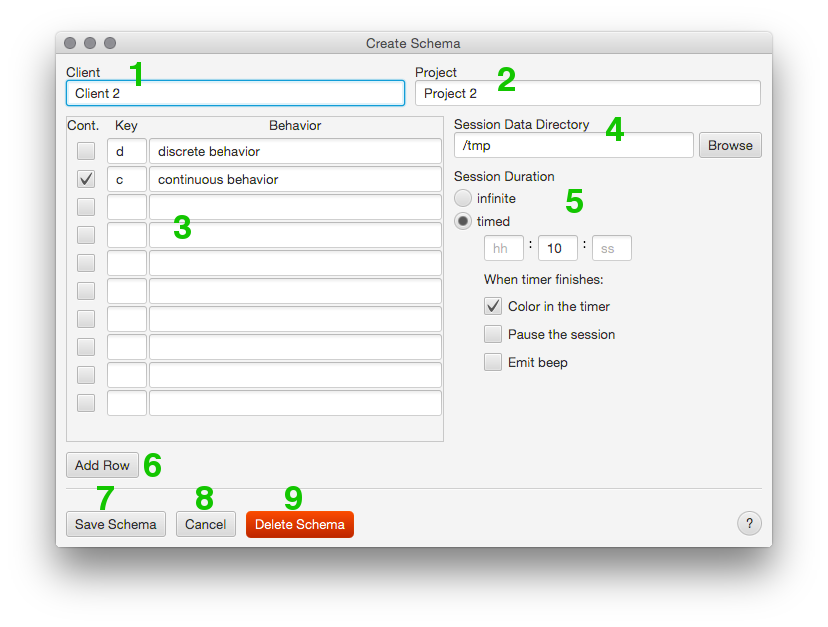
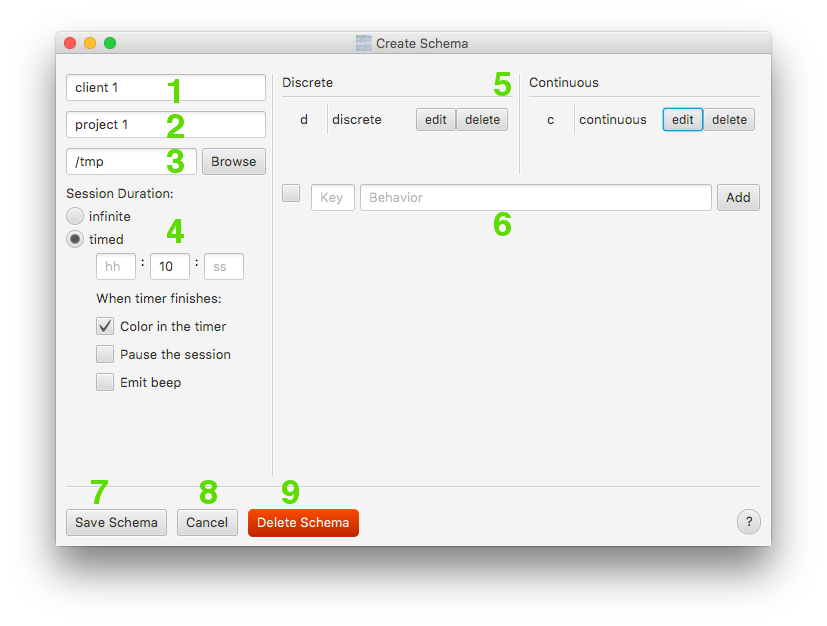
updated the manual to match the new 1.1 changes in the edit menu

diff --git a/resources/manual/manual.html b/resources/manual/manual.html
@@ -47,16 +47,16 @@ data-collectors record behaviors.</p>
 
 <h2>Windows</h2>
 
-<p>After downloading the installer (3Bird Behavior Logger.exe), double-click the file. <br />
-<img src="win.png" alt="win" /> <br />
+<p>After downloading the installer (3Bird Behavior Logger.exe), double-click the file.
+<img src="win.png" alt="win" />
 Click "install". When finished, you should be able to open the application from Start Menu &gt; All Programs.</p>
 
 <p><a name="mac"></a></p>
 
 <h2>Mac</h2>
 
-<p>After downloading the installer (3Bird Behavior Logger.dmg), double-click the file. <br />
-<img src="mac.png" alt="mac" /> <br />
+<p>After downloading the installer (3Bird Behavior Logger.dmg), double-click the file.
+<img src="mac.png" alt="mac" />
 Drag the icon over the Applications folder.</p>
 
 <hr />
@@ -98,14 +98,8 @@ Drag the icon over the Applications folder.</p>
 <p><img src="edit-menu.png" alt="edit-menu" /></p>
 
 <ol>
-<li><strong>Client</strong> - The identifier of the client.</li>
+<li><strong>Client</strong> - An identifier for the client.</li>
 <li><strong>Project</strong> - The research project this schema is for.</li>
-<li><strong>Key-Behavior Mappings</strong> - The keys used to record target behaviors.
-<ul>
-<li><em>Cont.</em> - Check if this is a <em>continuous behavior</em> (ie. it has a duration rather than a count).</li>
-<li><em>Key</em> - A single character to represent the behavior. Accepted character include lower-case letters, digits, and some symbols ( ` '  - = [ ] ; , . \ / )</li>
-<li><em>Behavior</em> - A description of the target behavior.</li>
-</ul></li>
 <li><strong>Session Data Directory</strong> - The directory session data-files will get saved to.</li>
 <li><strong>Session Duration</strong>
 <ul>
@@ -113,9 +107,15 @@ Drag the icon over the Applications folder.</p>
 <li><em>timed</em> - If checked, sessions will be considered "finished" when they reach the set duration. If this field is set to zero, or left empty, it's the same as checking <em>infinite</em>.</li>
 <li><em>When timer finishes</em> - Check the actions you would like to happen when a session is over.</li>
 </ul></li>
-<li><strong>Add Row</strong> - Adds a new row to the Mappings section.</li>
-<li><strong>Cancel</strong> - Discard all changes and return to Start Menu.</li>
+<li><strong>Key-Behavior Mappings</strong> - The keys used to record target behaviors. They are divided between <em>Discrete</em> and <em>Continuous</em> behaviors. You can <em>edit</em> or <em>delete</em> each behavior listed.</li>
+<li><strong>Add Behavior</strong> - Adds a new row to the Mappings section.
+<ul>
+<li><em>Cont.</em> - Check if this is a <em>continuous behavior</em> (ie. it has a duration rather than a count).</li>
+<li><em>Key</em> - A single character to represent the behavior. Accepted character include lower-case letters, digits, and some symbols ( ` '  - = [ ] ; , . \ / )</li>
+<li><em>Behavior</em> - A description of the target behavior.</li>
+</ul></li>
 <li><strong>Save</strong> - Saves changes and returns to Start Menu. If this is a new schema, it will show up in the schema list.</li>
+<li><strong>Cancel</strong> - Discard all changes and return to Start Menu.</li>
 <li><strong>Delete Schema</strong> - Deletes the current schema. Prompts the user for confirmation.</li>
 </ol>
 
@@ -162,7 +162,7 @@ Drag the icon over the Applications folder.</p>
 
 <p>You can also log new behaviors on the fly while recording.</p>
 
-<p><strong>Discrete</strong> - press an unmapped key. <br />
+<p><strong>Discrete</strong> - press an unmapped key.
 <strong>Continuous</strong> - press an unmapped key while holding <code>shift</code>. Once the new continuous key is added, you don't have to hold <code>shift</code> to toggle it again.</p>
 
 <p>When you pause the session, you can click <em>Edit Unknown Behaviors</em> to assign values to any unknowns you might have logged. If you logged an unknown by mistake, you can ignore it.</p>
@@ -173,9 +173,9 @@ Drag the icon over the Applications folder.</p>
 
 <p>You can undo behaviors using <code>ctrl</code>+<code>z</code> for Windows and <code>cmd</code>+<code>z</code> for Macs (see <a href="#keyboard-shortcuts">Keyboard Shortcuts</a> for a full list of shortcuts). There is no "redo" funcationality yet.</p>
 
-<p><em>Undo</em> works differently depending on what the latest behavior was. <br />
-For discrete behaviors it simply removes the behavior and decrements the counter by 1. <br />
-For a continuous behavior that has been <em>started</em> but hasn't <em>ended</em>, it reverts the counter back to its position before it started. <br />
+<p><em>Undo</em> works differently depending on what the latest behavior was.
+For discrete behaviors it simply removes the behavior and decrements the counter by 1.
+For a continuous behavior that has been <em>started</em> but hasn't <em>ended</em>, it reverts the counter back to its position before it started.
 For a continuous behavior that has ended, it decrements the counter by whatever the duration was.</p>
 
 <p><a name="adding-notes-to-a-session"></a></p>

diff --git a/resources/manual/manual.md b/resources/manual/manual.md
@@ -36,15 +36,15 @@ data-collectors record behaviors.
 <a name="windows"></a>
 ## Windows
 
-After downloading the installer (3Bird Behavior Logger.exe), double-click the file.  
-![win](win.png)  
+After downloading the installer (3Bird Behavior Logger.exe), double-click the file.
+![win](win.png)
 Click "install". When finished, you should be able to open the application from Start Menu > All Programs.
 
 <a name="mac"></a>
 ## Mac
 
-After downloading the installer (3Bird Behavior Logger.dmg), double-click the file.  
-![mac](mac.png)  
+After downloading the installer (3Bird Behavior Logger.dmg), double-click the file.
+![mac](mac.png)
 Drag the icon over the Applications folder.
 
 ---
@@ -79,20 +79,20 @@ Drag the icon over the Applications folder.
 
 ![edit-menu](edit-menu.png)
 
-1. **Client** - The identifier of the client.
+1. **Client** - An identifier for the client.
 2. **Project** - The research project this schema is for.
-3. **Key-Behavior Mappings** - The keys used to record target behaviors.
-  - *Cont.* - Check if this is a *continuous behavior* (ie. it has a duration rather than a count).
-  - *Key* - A single character to represent the behavior. Accepted character include lower-case letters, digits, and some symbols ( ` '  - = [ ] ; , . \ / )
-  - *Behavior* - A description of the target behavior.
-4. **Session Data Directory** - The directory session data-files will get saved to.
-5. **Session Duration**
+3. **Session Data Directory** - The directory session data-files will get saved to.
+4. **Session Duration**
   - *infinite* - If checked, sessions will never end.
   - *timed* - If checked, sessions will be considered "finished" when they reach the set duration. If this field is set to zero, or left empty, it's the same as checking *infinite*.
   - *When timer finishes* - Check the actions you would like to happen when a session is over.
-6. **Add Row** - Adds a new row to the Mappings section.
-7. **Cancel** - Discard all changes and return to Start Menu.
-8. **Save** - Saves changes and returns to Start Menu. If this is a new schema, it will show up in the schema list.
+5. **Key-Behavior Mappings** - The keys used to record target behaviors. They are divided between *Discrete* and *Continuous* behaviors. You can *edit* or *delete* each behavior listed.
+6. **Add Behavior** - Adds a new row to the Mappings section.
+  - *Cont.* - Check if this is a *continuous behavior* (ie. it has a duration rather than a count).
+  - *Key* - A single character to represent the behavior. Accepted character include lower-case letters, digits, and some symbols ( ` '  - = [ ] ; , . \ / )
+  - *Behavior* - A description of the target behavior.
+7. **Save** - Saves changes and returns to Start Menu. If this is a new schema, it will show up in the schema list.
+8. **Cancel** - Discard all changes and return to Start Menu.
 9. **Delete Schema** - Deletes the current schema. Prompts the user for confirmation.
 
 ---
@@ -129,7 +129,7 @@ While a session is playing, press any of the mapped keys to log a behavior. **Di
 
 You can also log new behaviors on the fly while recording.
 
-**Discrete** - press an unmapped key.  
+**Discrete** - press an unmapped key.
 **Continuous** - press an unmapped key while holding `shift`. Once the new continuous key is added, you don't have to hold `shift` to toggle it again.
 
 When you pause the session, you can click *Edit Unknown Behaviors* to assign values to any unknowns you might have logged. If you logged an unknown by mistake, you can ignore it.
@@ -139,9 +139,9 @@ When you pause the session, you can click *Edit Unknown Behaviors* to assign val
 
 You can undo behaviors using `ctrl`+`z` for Windows and `cmd`+`z` for Macs (see [Keyboard Shortcuts](#keyboard-shortcuts) for a full list of shortcuts). There is no "redo" funcationality yet.
 
-*Undo* works differently depending on what the latest behavior was.  
-For discrete behaviors it simply removes the behavior and decrements the counter by 1.  
-For a continuous behavior that has been *started* but hasn't *ended*, it reverts the counter back to its position before it started.  
+*Undo* works differently depending on what the latest behavior was.
+For discrete behaviors it simply removes the behavior and decrements the counter by 1.
+For a continuous behavior that has been *started* but hasn't *ended*, it reverts the counter back to its position before it started.
 For a continuous behavior that has ended, it decrements the counter by whatever the duration was.
 
 <a name="adding-notes-to-a-session"></a>
